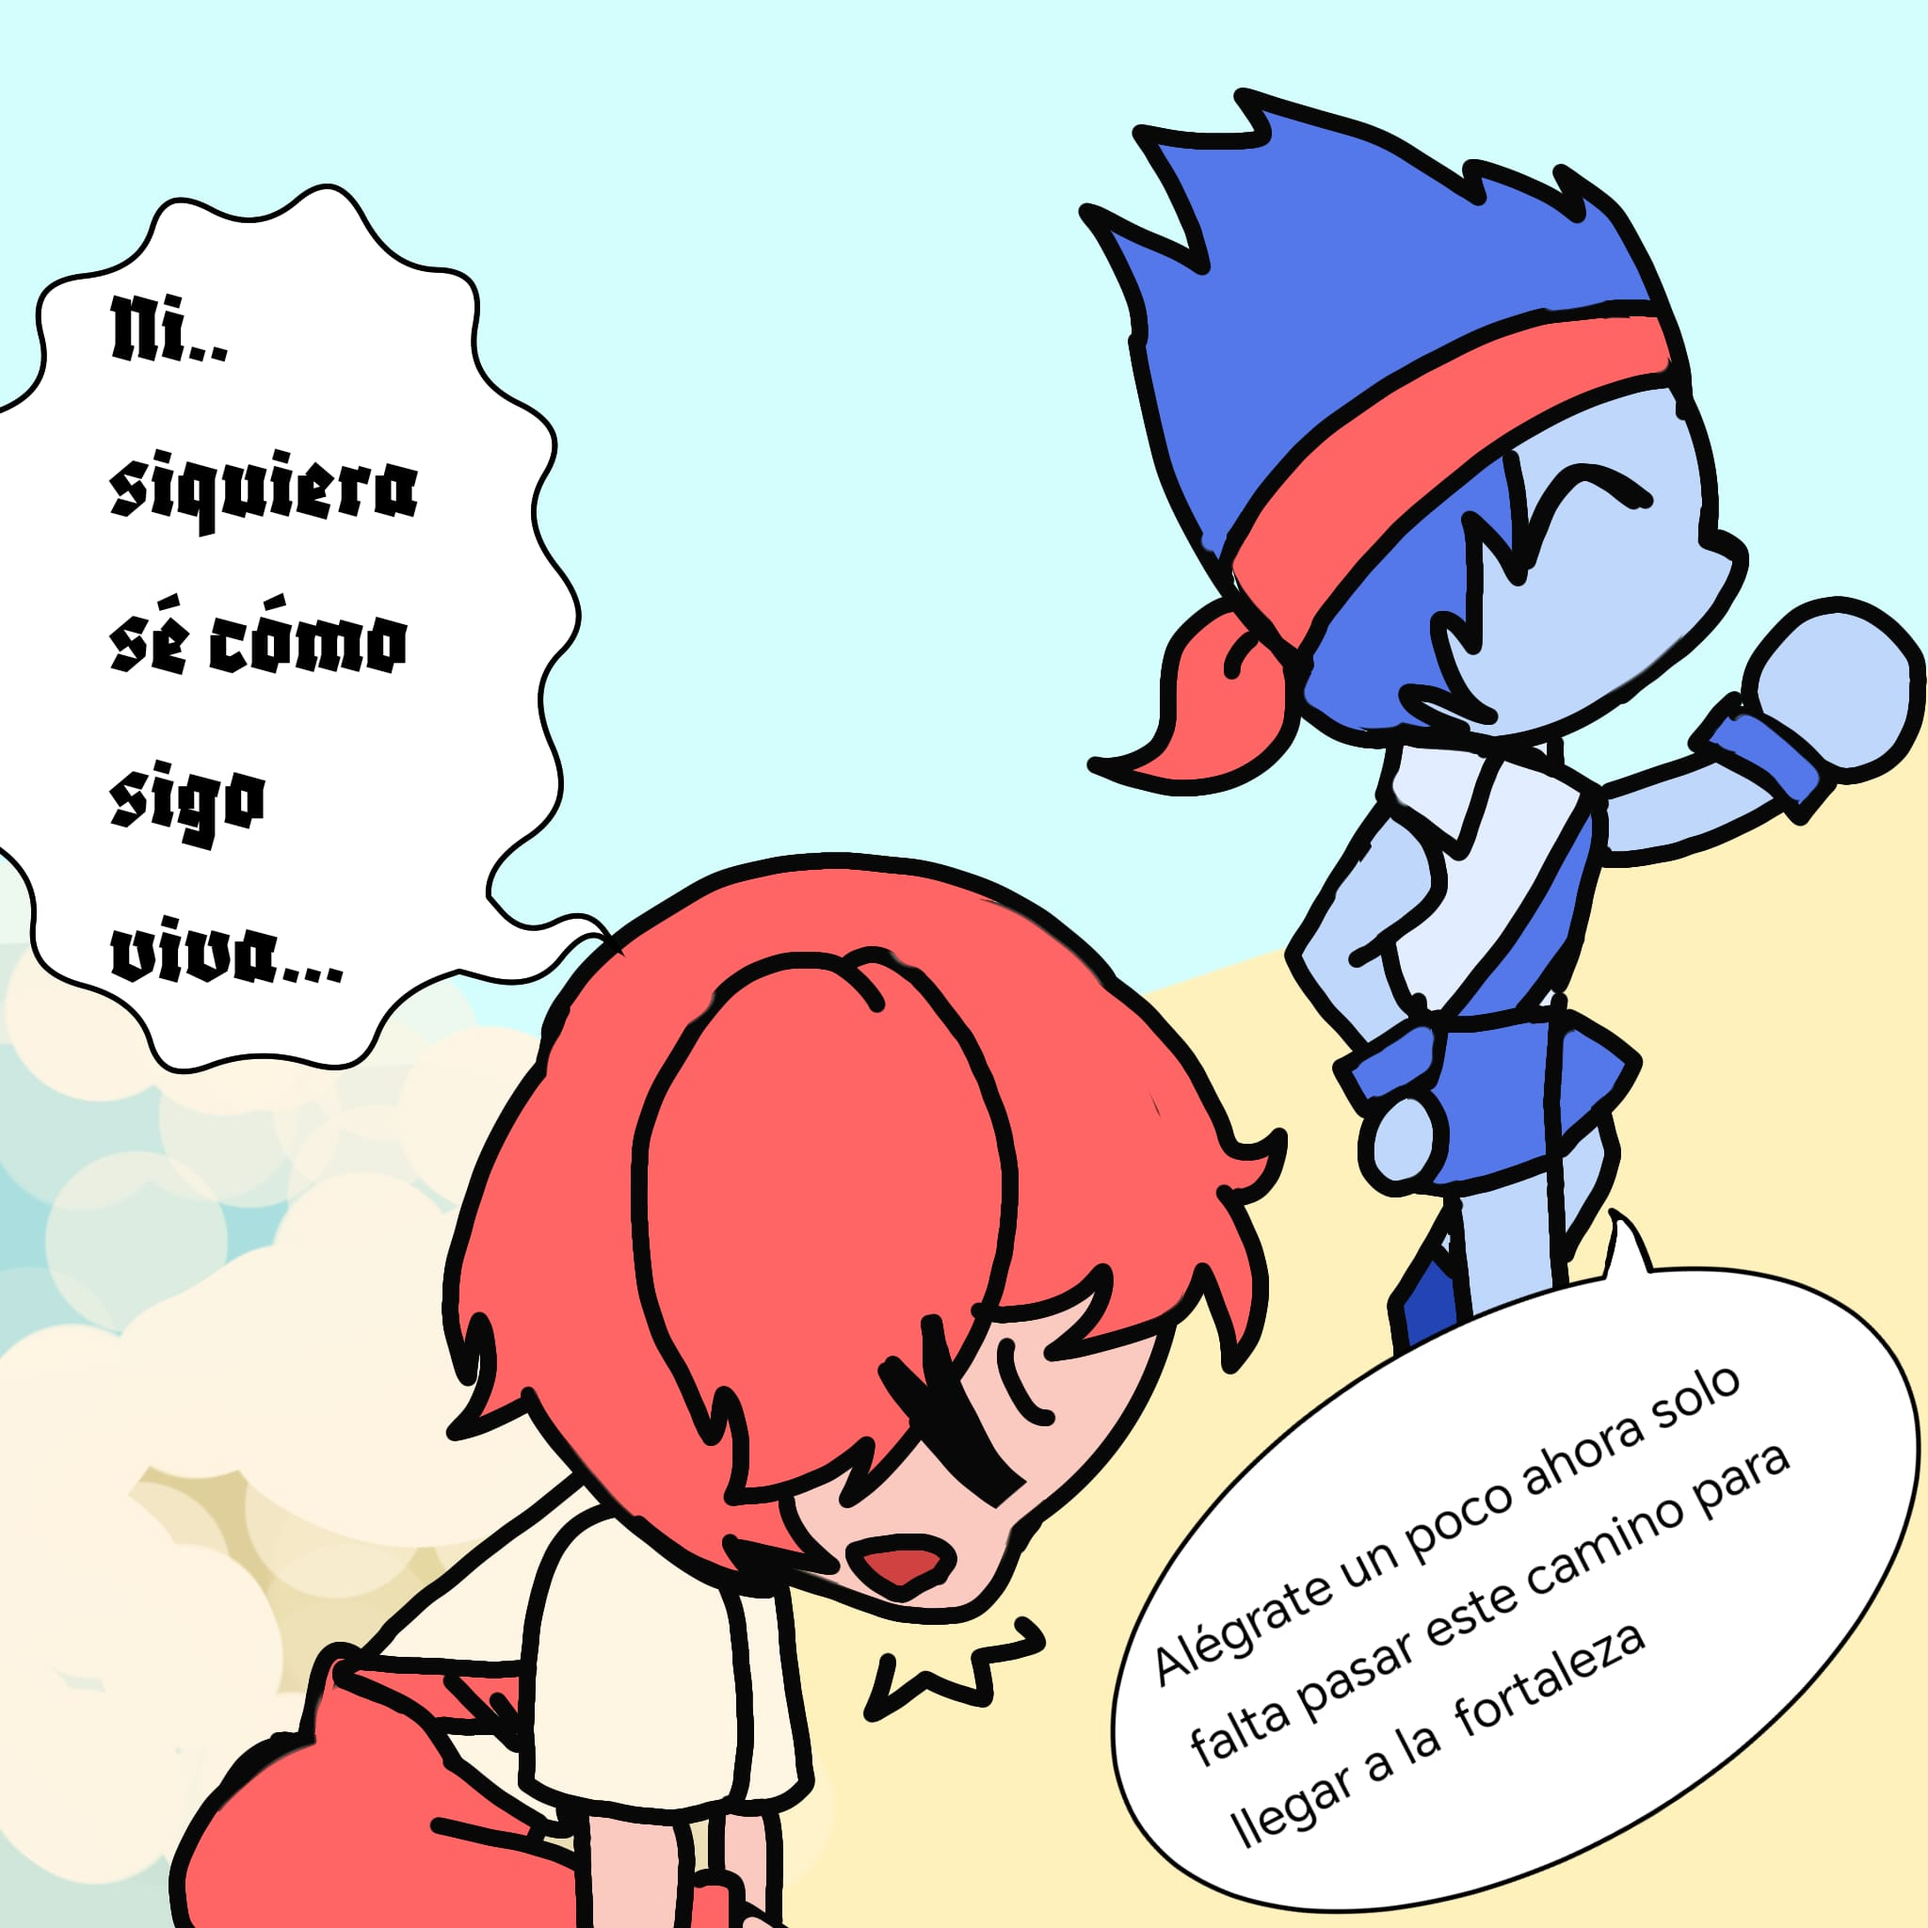
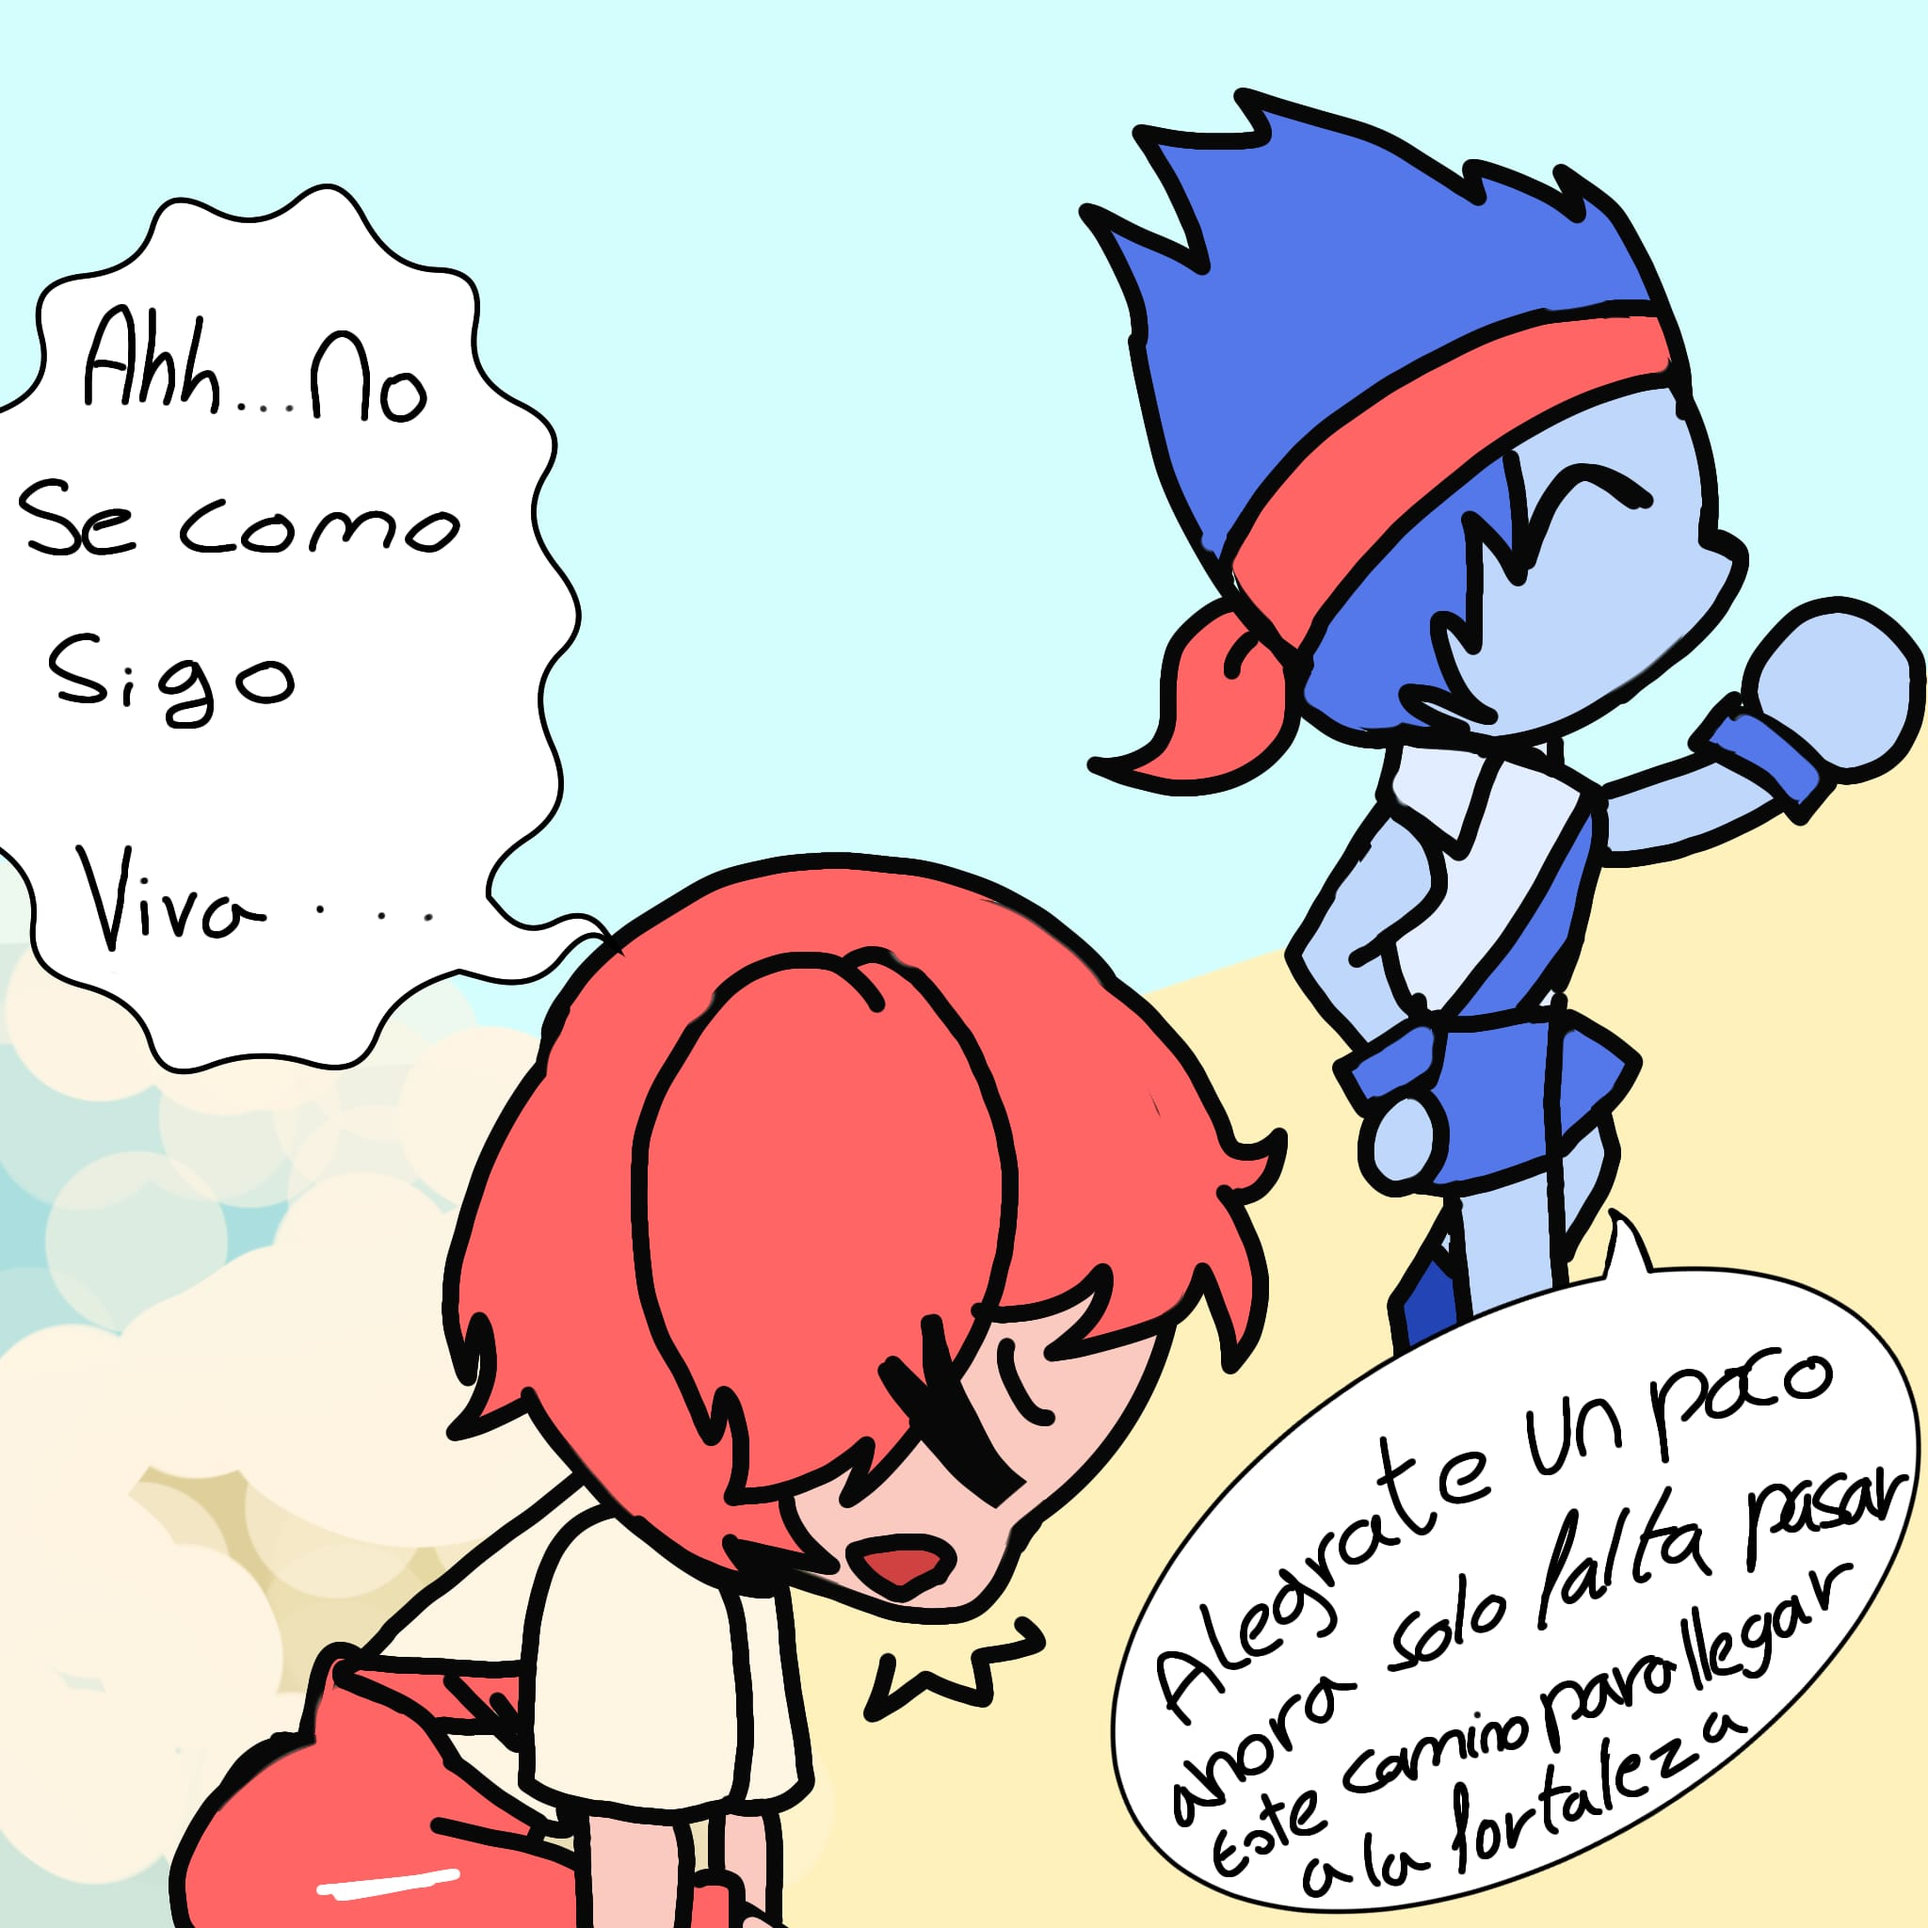
del 5 al 6

Changed region(s): [[0.5938, 0.6875, 1.0, 1.0], [0.0, 0.1562, 0.25, 0.5312], [0.1562, 0.9688, 0.25, 1.0]]

diff --git a/cap_de2a4/16.tsx b/cap_de2a4/16.tsx
@@ -1,0 +1,4 @@
+<?xml version="1.0" encoding="UTF-8"?>
+<tileset version="1.10" tiledversion="1.12.1" name="16" tilewidth="2048" tileheight="2048" tilecount="1" columns="1">
+ <image source="16.jpg" width="2048" height="2048"/>
+</tileset>

diff --git a/cap_de2a4/17.tsx b/cap_de2a4/17.tsx
@@ -1,0 +1,4 @@
+<?xml version="1.0" encoding="UTF-8"?>
+<tileset version="1.10" tiledversion="1.12.1" name="17" tilewidth="2048" tileheight="2048" tilecount="1" columns="1">
+ <image source="17.jpg" width="2048" height="2048"/>
+</tileset>

diff --git a/cap_de2a4/18.tsx b/cap_de2a4/18.tsx
@@ -1,0 +1,4 @@
+<?xml version="1.0" encoding="UTF-8"?>
+<tileset version="1.10" tiledversion="1.12.1" name="18" tilewidth="2048" tileheight="2048" tilecount="1" columns="1">
+ <image source="18.jpg" width="2048" height="2048"/>
+</tileset>

diff --git a/cap_de2a4/19.tsx b/cap_de2a4/19.tsx
@@ -1,0 +1,4 @@
+<?xml version="1.0" encoding="UTF-8"?>
+<tileset version="1.10" tiledversion="1.12.1" name="19" tilewidth="2048" tileheight="2048" tilecount="1" columns="1">
+ <image source="19.jpg" width="2048" height="2048"/>
+</tileset>

diff --git a/cap_de2a4/20.tsx b/cap_de2a4/20.tsx
@@ -1,0 +1,4 @@
+<?xml version="1.0" encoding="UTF-8"?>
+<tileset version="1.10" tiledversion="1.12.1" name="20" tilewidth="2048" tileheight="2048" tilecount="1" columns="1">
+ <image source="20.jpg" width="2048" height="2048"/>
+</tileset>

diff --git a/cap_de2a4/21.tsx b/cap_de2a4/21.tsx
@@ -1,0 +1,4 @@
+<?xml version="1.0" encoding="UTF-8"?>
+<tileset version="1.10" tiledversion="1.12.1" name="21" tilewidth="2048" tileheight="2048" tilecount="1" columns="1">
+ <image source="21.jpg" width="2048" height="2048"/>
+</tileset>

diff --git a/cap_de2a4/22.tsx b/cap_de2a4/22.tsx
@@ -1,0 +1,4 @@
+<?xml version="1.0" encoding="UTF-8"?>
+<tileset version="1.10" tiledversion="1.12.1" name="22" tilewidth="2048" tileheight="2048" tilecount="1" columns="1">
+ <image source="22.jpg" width="2048" height="2048"/>
+</tileset>
